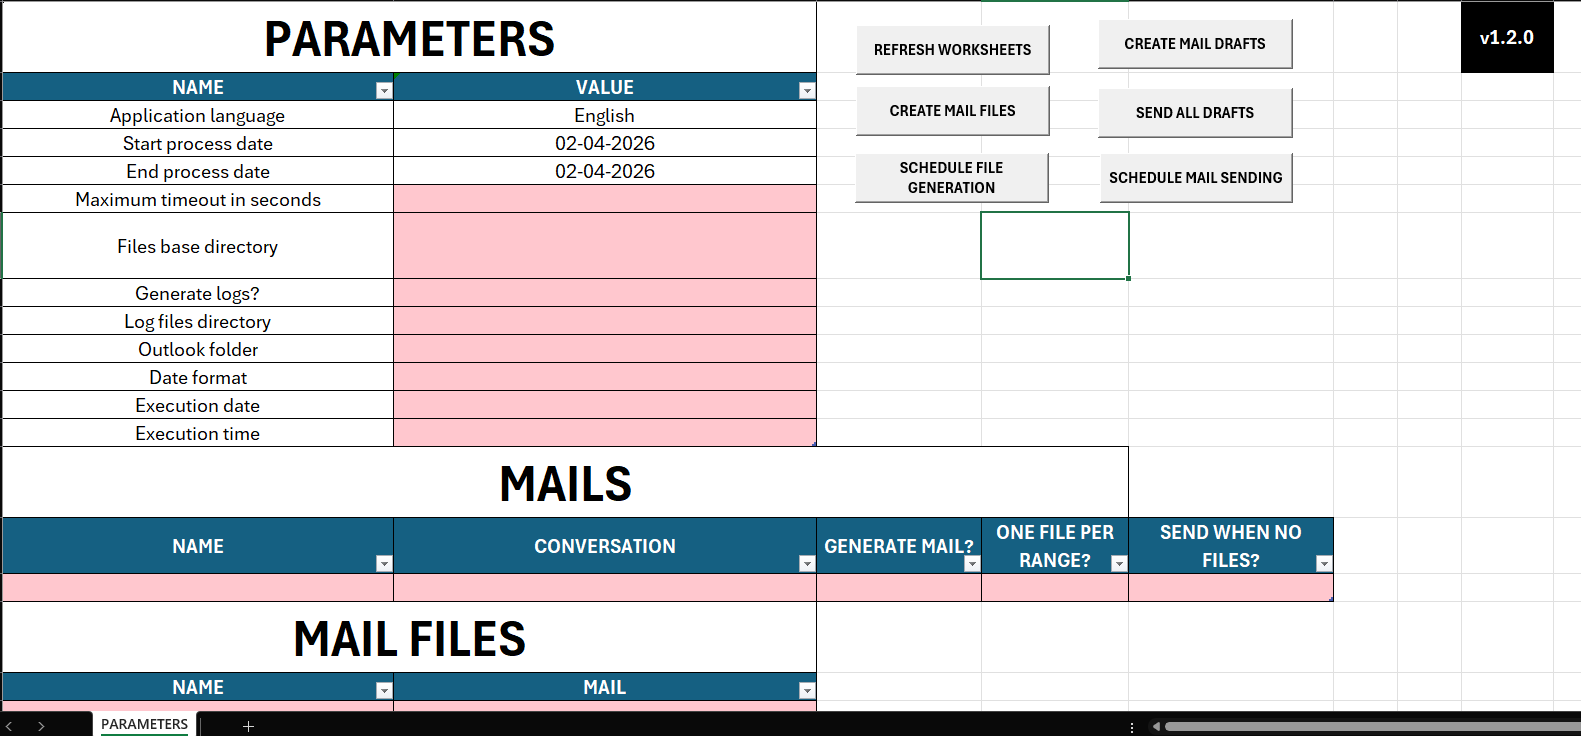
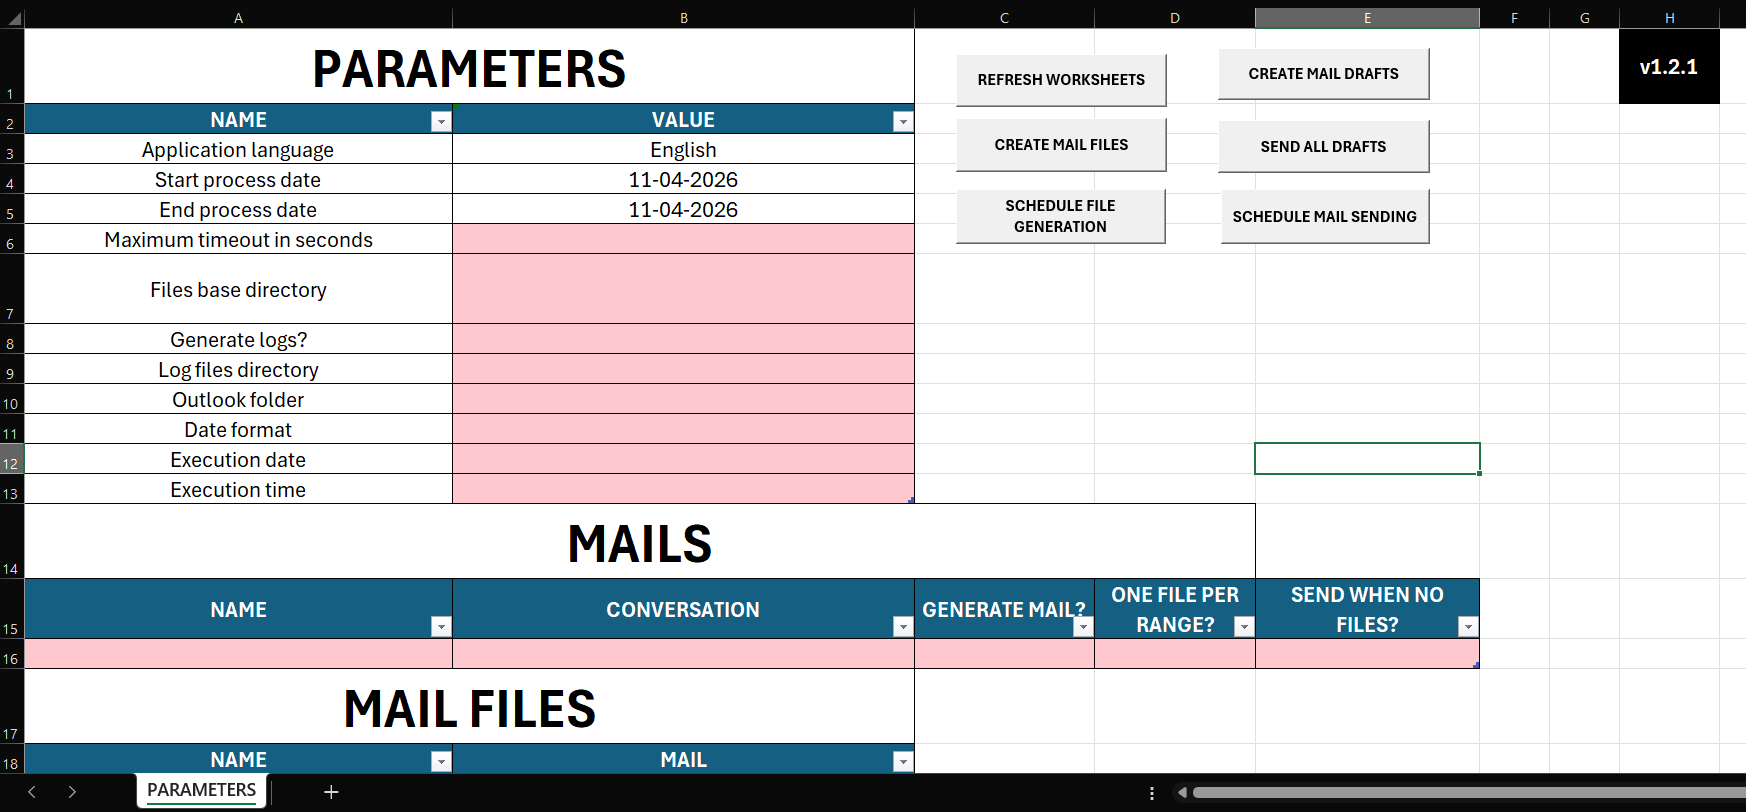
Remove CloseAllWorkbooks method

diff --git a/README.es.md b/README.es.md
@@ -3,7 +3,7 @@
 [![en](https://img.shields.io/badge/lang-en-red.svg)](https://github.com/elvladi15/excel-report-automation/blob/main/README.md)
 [![es](https://img.shields.io/badge/lang-es-yellow.svg)](https://github.com/elvladi15/excel-report-automation/blob/main/README.es.md)
 
-# Excel para envío de correos automáticos v1.2.0
+# Excel para envío de correos automáticos v1.2.1
 
 ![Alt text](./assets/languages/ES/main-image.png "Imagen principal")
 

diff --git a/README.md b/README.md
@@ -3,7 +3,7 @@
 [![en](https://img.shields.io/badge/lang-en-red.svg)](https://github.com/elvladi15/excel-report-automation/blob/main/README.md)
 [![es](https://img.shields.io/badge/lang-es-yellow.svg)](https://github.com/elvladi15/excel-report-automation/blob/main/README.es.md)
 
-# Excel for Automatic Email Sending v1.2.0
+# Excel for Automatic Email Sending v1.2.1
 
 ![Main image](./assets/languages/EN/main-image.png)
 
